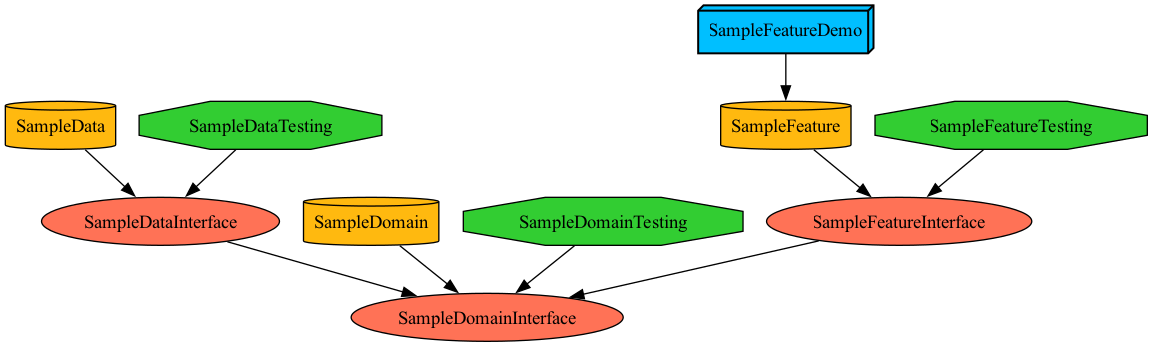
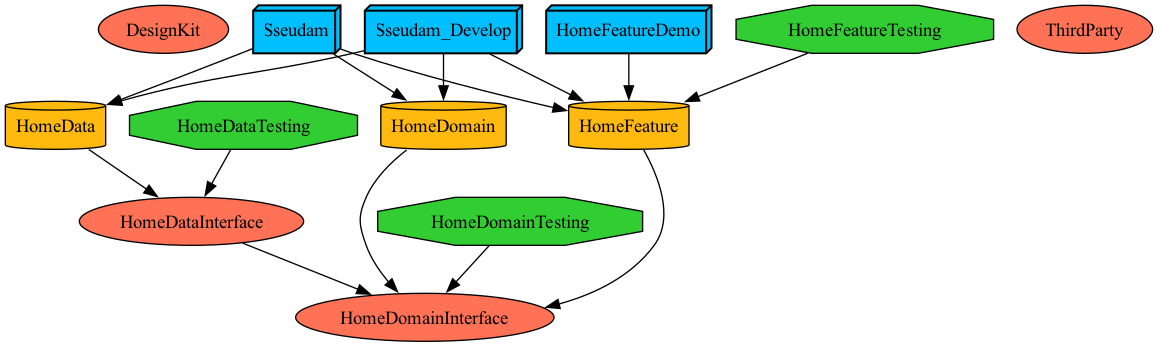
chore: FeatureInterface 제거

diff --git a/Projects/Feature/Home/HomeFeature/Sources/HomeReducer.swift b/Projects/Feature/Home/HomeFeature/Sources/HomeReducer.swift
@@ -6,14 +6,28 @@
 //  Created by JiYeon
 //
 
-import HomeFeatureInterface
 import ComposableArchitecture
 
-extension HomeReducer {
-  public static let HomeReducer = Reduce<State, Action> { state, action in
-    switch action {
-    default:
-      return .none
+@Reducer
+public struct HomeReducer {
+  public init() {}
+  
+  @ObservableState
+  public struct State: Equatable {
+    
+    public init() {}
+  }
+
+  public enum Action: BindableAction, Equatable {
+    case binding(BindingAction<State>)
+  }
+
+  public var body: some ReducerOf<Self> {
+    BindingReducer()
+    Reduce { state, action in
+      switch action {
+      default: return .none
+      }
     }
   }
 }

diff --git a/Tuist/ProjectDescriptionHelpers/Project+.swift b/Tuist/ProjectDescriptionHelpers/Project+.swift
@@ -75,20 +75,15 @@ public extension Project {
     )
     let feature = Target.makeDynamicFrameworkTarget(
       for: module,
-      dependencies: [.target(name: name(for: module, suffix: "Interface"))]
+      dependencies: dependencies
     )
     let featureUnitTest = Target.makeTestingTarget(
       for: module,
-      dependencies: [.target(name: name(for: module, suffix: "Interface"))]
-    )
-    let featureInterface = Target.makeStaticLibraryTarget(
-      for: module,
-      dependencies: dependencies,
-      nameSuffix: "Interface"
+      dependencies: [.target(name: name(for: module))]
     )
     return baseProject(
       name: name(for: module),
-      targets: [demo, feature, featureUnitTest, featureInterface]
+      targets: [demo, feature, featureUnitTest]
     )
   }
   

diff --git a/Projects/Data/Home/HomeData/Sources/HomeRepositoryImpl.swift b/Projects/Data/Home/HomeData/Sources/HomeRepositoryImpl.swift
@@ -9,14 +9,13 @@
 import Foundation
 import HomeDomainInterface
 import HomeDataInterface
-import Core
 
 public struct HomeRepositoryImpl: HomeRepository {
-  private let networker: NetworkProtocol
+//  private let networker: NetworkProtocol
   
-  public init(networker: NetworkProtocol) {
-    self.networker = networker
-  }
+//  public init(networker: NetworkProtocol) {
+//    self.networker = networker
+//  }
   public func fetchData() async throws -> Void {}
   
 }

diff --git a/Projects/Sseudam/Sources/SseudamFeature.swift b/Projects/Sseudam/Sources/SseudamFeature.swift
@@ -9,17 +9,21 @@
 import Foundation
 import ComposableArchitecture
 
+import HomeFeature
+
 @Reducer
 struct SseudamFeature {
   
   @ObservableState
   struct State {
     var selectedTab: TabItem = .home
+    var home: HomeReducer.State = HomeReducer.State()
   }
   
-  enum Action: BindableAction {
+  enum Action: BindableAction, Equatable {
     case binding(BindingAction<State>)
     case selectTab(TabItem)
+    case home(HomeReducer.Action)
   }
   
   var body: some ReducerOf<Self> {
@@ -34,6 +38,7 @@ struct SseudamFeature {
       default: return .none
       }
     }
+    
   }
   
 }

diff --git a/Tuist/ProjectDescriptionHelpers/TargetDependency+.swift b/Tuist/ProjectDescriptionHelpers/TargetDependency+.swift
@@ -99,10 +99,7 @@ extension TargetDependencyDelegate {
 
 extension TargetDependency {
   public struct Features: TargetDependencyDelegate {
-    public struct Home: TargetDependencyDelegate {
-      public static let Interface = Self.project(.feature(.Home, isInterface: true))
-      public static let Implement = Self.project(.feature(.Home))
-    }
+    public static let Home = Self.project(.feature(.Home))
   }
   
   public struct Domain: TargetDependencyDelegate {

diff --git a/Projects/Sseudam/Sources/SseudamView.swift b/Projects/Sseudam/Sources/SseudamView.swift
@@ -8,6 +8,7 @@
 
 import SwiftUI
 import ComposableArchitecture
+import HomeFeature
 
 struct SseudamView: View {
   @Bindable var store: StoreOf<SseudamFeature> = Store(
@@ -20,7 +21,7 @@ struct SseudamView: View {
     VStack {
       switch store.selectedTab {
       case .home:
-        EmptyView()
+        HomeView(store: store.scope(state: \.home, action: \.home))
       case .search:
         EmptyView()
       case .profile:
@@ -38,4 +39,5 @@ struct SseudamView: View {
 #Preview {
   SseudamView()
 }
+
 

diff --git a/Projects/Feature/Home/HomeFeatureTesting/Sources/HomeUnitTests.swift b/Projects/Feature/Home/HomeFeatureTesting/Sources/HomeUnitTests.swift
@@ -8,7 +8,7 @@
 
 import XCTest
 import ComposableArchitecture
-@testable import HomeInterface
+@testable import HomeFeature
 
 final class HomeUnitTests: XCTestCase {
     

diff --git a/Projects/Sseudam/Project.swift b/Projects/Sseudam/Project.swift
@@ -24,7 +24,7 @@ let project = Project.makeApp(
     ],
   ],
   dependencies: [
-    .Features.Home.Implement,
+    .Features.Home,
     .Domain.Home.Implement,
     .Data.Home.Implement
   ]